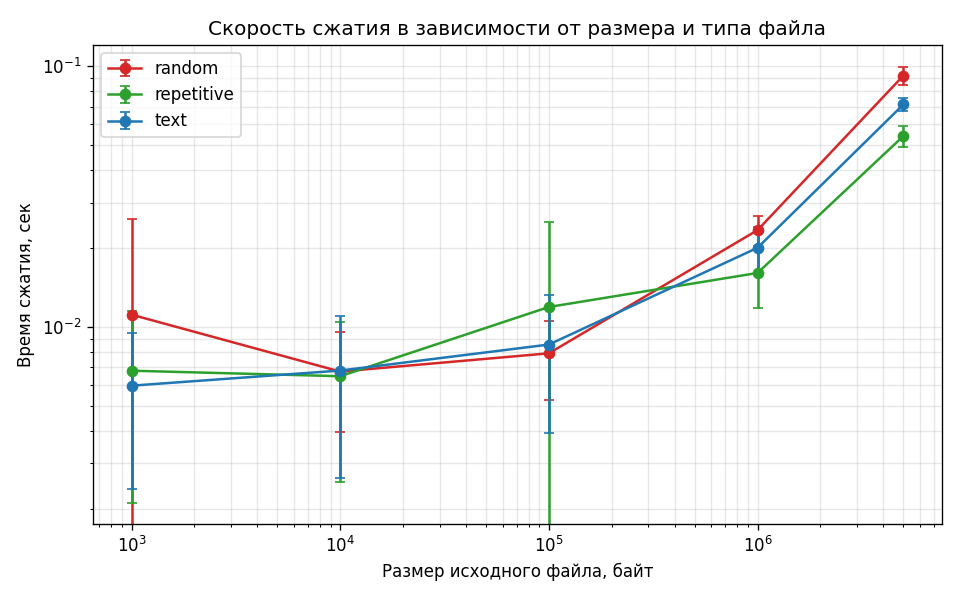
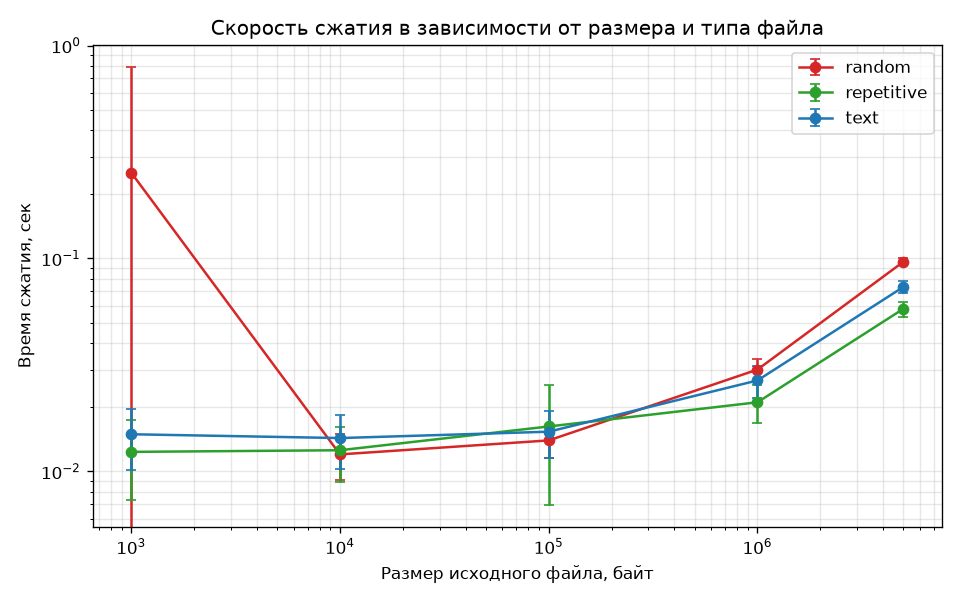
bench: add gzip compression-ratio comparison to benchmarks

diff --git a/benchmarks/run_benchmark.py b/benchmarks/run_benchmark.py
@@ -5,11 +5,16 @@
 среднеквадратичное отклонение. Результаты сохраняются в results.csv и
 в виде графиков (PNG) в текущей директории.
 
+Дополнительно замеряется степень сжатия gzip (модуль gzip из стандартной
+библиотеки Python, уровень сжатия 9) на тех же файлах — как точка сравнения
+с существующей открытой реализацией сжатия (см. README.md в этой папке).
+
 Использование:
     python3 generate_data.py     # сначала сгенерировать тестовые файлы
     python3 run_benchmark.py     # затем прогнать замеры
 """
 import csv
+import gzip
 import os
 import statistics
 import subprocess
@@ -37,6 +42,27 @@ def run_huffman(mode, input_path, output_path):
     return elapsed
 
 
+def benchmark_gzip(path, original_size):
+    """Степень сжатия и время сжатия gzip (уровень 9) на том же файле —
+    точка сравнения с существующей открытой реализацией."""
+    with open(path, "rb") as f:
+        data = f.read()
+
+    compress_times = []
+    compressed = b""
+    for _ in range(REPEATS):
+        start = time.perf_counter()
+        compressed = gzip.compress(data, compresslevel=9)
+        compress_times.append(time.perf_counter() - start)
+
+    compressed_size = len(compressed)
+    return {
+        "gzip_compressed_size": compressed_size,
+        "gzip_compression_ratio": original_size / compressed_size if compressed_size else float("inf"),
+        "gzip_compress_time_mean": statistics.mean(compress_times),
+    }
+
+
 def benchmark_file(path):
     os.makedirs(TMP_DIR, exist_ok=True)
     compressed_path = os.path.join(TMP_DIR, "bench.huf")
@@ -55,7 +81,7 @@ def benchmark_file(path):
     with open(path, "rb") as f1, open(restored_path, "rb") as f2:
         assert f1.read() == f2.read(), f"разжатый файл не совпадает с оригиналом: {path}"
 
-    return {
+    stats = {
         "original_size": original_size,
         "compressed_size": compressed_size,
         "compression_ratio": original_size / compressed_size if compressed_size else float("inf"),
@@ -64,6 +90,8 @@ def benchmark_file(path):
         "decompress_time_mean": statistics.mean(decompress_times),
         "decompress_time_stdev": statistics.stdev(decompress_times) if len(decompress_times) > 1 else 0.0,
     }
+    stats.update(benchmark_gzip(path, original_size))
+    return stats
 
 
 def parse_filename(filename):
@@ -102,6 +130,7 @@ def main():
     print(f"\nРезультаты сохранены в {csv_path}")
 
     make_plots(rows)
+    make_gzip_comparison_plot(rows)
 
 
 def make_plots(rows):
@@ -167,6 +196,37 @@ def make_plots(rows):
     plt.close()
 
     print("Графики сохранены: compression_ratio.png, compress_speed.png, decompress_speed.png")
+
+
+def make_gzip_comparison_plot(rows):
+    """Сравнение степени сжатия huffman и gzip на самом большом файле
+    (5 МБ) каждого типа данных — наглядно, насколько наш алгоритм близок
+    к существующей открытой реализации сжатия."""
+    import matplotlib.pyplot as plt
+
+    types = sorted(set(r["type"] for r in rows))
+    max_size = max(r["size"] for r in rows)
+    by_type = {r["type"]: r for r in rows if r["size"] == max_size}
+
+    huffman_ratios = [by_type[t]["compression_ratio"] for t in types]
+    gzip_ratios = [by_type[t]["gzip_compression_ratio"] for t in types]
+
+    x = range(len(types))
+    width = 0.35
+
+    plt.figure(figsize=(8, 5))
+    plt.bar([i - width / 2 for i in x], huffman_ratios, width, label="huffman (наш)", color="tab:blue")
+    plt.bar([i + width / 2 for i in x], gzip_ratios, width, label="gzip", color="tab:orange")
+    plt.xticks(list(x), types)
+    plt.ylabel("Степень сжатия (original/compressed)")
+    plt.title(f"huffman vs gzip: степень сжатия на файлах {max_size // 1_000_000} МБ")
+    plt.legend()
+    plt.grid(True, axis="y", alpha=0.3)
+    plt.tight_layout()
+    plt.savefig(os.path.join(BENCH_DIR, "vs_gzip.png"), dpi=120)
+    plt.close()
+
+    print("График сравнения с gzip сохранён: vs_gzip.png")
 
 
 if __name__ == "__main__":

diff --git a/benchmarks/README.md b/benchmarks/README.md
@@ -19,7 +19,11 @@ python3 run_benchmark.py   # прогнать замеры и построить
 - **время сжатия** и **время разжатия** — среднее и среднеквадратичное
   отклонение по 5 повторным прогонам (константа `REPEATS` в `run_benchmark.py`);
 - после каждого разжатия скрипт сверяет разжатый файл с исходным побайтово
-  (доп. проверка корректности поверх модульных тестов).
+  (доп. проверка корректности поверх модульных тестов);
+- **сравнение с gzip** (модуль `gzip` из стандартной библиотеки Python,
+  уровень сжатия 9) на тех же файлах — как точка сравнения с существующей
+  открытой реализацией сжатия (колонки `gzip_*` в `results.csv`, график
+  `vs_gzip.png`).
 
 ## Типы тестовых данных
 
@@ -52,8 +56,30 @@ python3 run_benchmark.py   # прогнать замеры и построить
 Графики:
 - `compression_ratio.png` — степень сжатия от размера файла (для трёх типов данных);
 - `compress_speed.png` — время сжатия от размера файла (лог-лог, с error bar'ами);
-- `decompress_speed.png` — время разжатия от размера файла (аналогично).
+- `decompress_speed.png` — время разжатия от размера файла (аналогично);
+- `vs_gzip.png` — сравнение степени сжатия huffman и gzip на самых больших
+  файлах (5 МБ) каждого типа данных.
 
 Разжатие в целом медленнее сжатия — это объясняется тем, что при разжатии
 приходится обходить дерево по одному биту за символ, а при сжатии код
 известен целиком и пишется напрямую.
+
+## Сравнение с gzip
+
+`gzip` — не просто Хаффман: это LZ77 (поиск повторов внутри самого файла) +
+Хаффман поверх результата, плюс небольшой заголовок (около 18 байт против
+наших до 256×9 байт на таблицу частот). Поэтому по-честному сравнивать
+нужно с пониманием, что это два разных класса алгоритмов, но ориентир
+полезен:
+
+- на **text** и **repetitive** gzip обычно сжимает сильнее — сказывается
+  LZ77-часть, находящая повторяющиеся последовательности байт, а не только
+  неравномерность частот отдельных символов;
+- на **random** оба алгоритма близки к отсутствию сжатия (как и положено
+  для данных с максимальной энтропией), но у нас на маленьких файлах
+  результат заметно хуже — из-за большого фиксированного заголовка
+  (таблица частот) относительно размера файла; у gzip заголовок в разы
+  меньше, поэтому проседание не такое сильное.
+
+Это ожидаемый результат для учебной реализации "чистого" Хаффмана без
+LZ77-предобработки, а не признак ошибки в коде.
